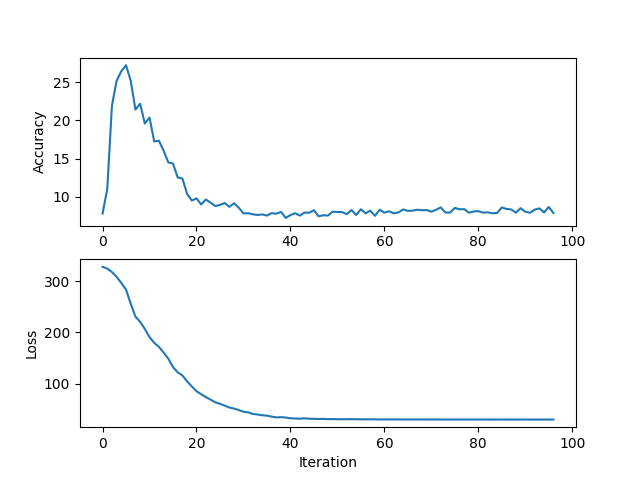
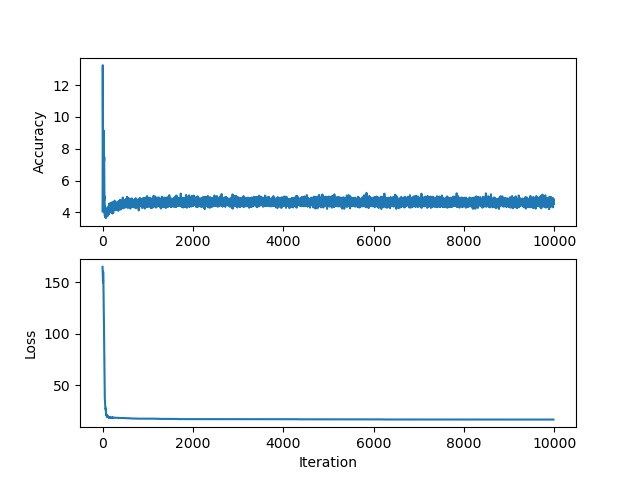
Trained mnist longer for FF (no convergence yet), and updated projects 2 do

diff --git a/architecture/forward-forward/train.py b/architecture/forward-forward/train.py
@@ -68,7 +68,7 @@ def train_mnist():
 
     errors = []
     accuracy = []
-    for epoch in range(1_000):
+    for epoch in range(10_000):
         test_acc = eval_model(model, test_loader).item()
         print(f"({epoch}) acc == {test_acc}%")
 

diff --git a/papers_2_consider.md b/papers_2_consider.md
@@ -52,8 +52,6 @@ Reading research done by (famous) students can be nice, it's one way to read the
 ## NLP 
 [MiniGPT-4](https://github.com/Vision-CAIR/MiniGPT-4)
 
-[BERT: Pre-training of Deep Bidirectional Transformers for Language Understanding](https://arxiv.org/pdf/1810.04805.pdf)
-
 [Meet in the Middle: A New Pre-training Paradigm](https://arxiv.org/pdf/2303.07295.pdf)
 
 [Reflexion: an autonomous agent with dynamic memory and self-reflection](https://arxiv.org/pdf/2303.11366.pdf)
@@ -64,14 +62,12 @@ Reading research done by (famous) students can be nice, it's one way to read the
 
 [AttentionViz: A Global View of Transformer Attention](https://arxiv.org/pdf/2305.03210.pdf)
 
-
 [The Internal State of an LLM Knows When its Lying](https://arxiv.org/abs/2304.13734)
+
+[Direct Preference Optimization: Your Language Model is Secretly a Reward Model](https://arxiv.org/pdf/2305.18290.pdf)
 
 ## GAN
 [Neural Networks with Recurrent Generative Feedback](https://arxiv.org/pdf/2007.09200.pdf)
-
-[Adding Conditional Control to Text-to-Image Diffusion Models](https://arxiv.org/abs/2302.05543)
-[Adding Conditional Control to Text-to-Image Diffusion Models(code)](https://github.com/lllyasviel/ControlNet)
 
 [Fast Text-Conditional Discrete Denoising on Vector-Quantized Latent Spaces](https://arxiv.org/abs/2211.07292)
 
@@ -98,6 +94,4 @@ Reading research done by (famous) students can be nice, it's one way to read the
 [Learning Fine-Grained Bimanual Manipulation with Low-Cost Hardware](https://tonyzhaozh.github.io/aloha/aloha.pdf)
 https://tonyzhaozh.github.io/aloha/
 
-## Others
-[SPREADING VECTORS FOR SIMILARITY SEARCH](https://arxiv.org/pdf/1806.03198.pdf)
 

diff --git a/projects_2_do.md b/projects_2_do.md
@@ -1,4 +1,4 @@
-Sometimes I forget the projects had planned, better to write it down here.
+Sometimes I forget the projects I had planned, better to write it down here.
 
 ## Ideas
 - Puzzles
@@ -8,6 +8,17 @@ Sometimes I forget the projects had planned, better to write it down here.
 - (WIP) Implement, and evaluate some embeddings `nlp/embeddings-experiments`
   - [Check out this](https://twitter.com/abacaj/status/1656323023937368065)
 
-- (WIP) Implement the [forward-forward algorithm](https://arxiv.org/abs/2212.13345) 
-
 - [Adversarial Examples Are Not Bugs, They Are Features](https://arxiv.org/pdf/1905.02175.pdf) has some cool plots, can you reproduce some of them ? 
+
+- Implement [Image generation with shortest path diffusion](https://arxiv.org/pdf/2306.00501.pdf)
+
+- Implement [HyperNetworks](https://arxiv.org/pdf/1609.09106.pdf)
+
+- Implement [Recurrent World Models Facilitate Policy Evolution](./reinforcement-learning/recurrent_world_models_faciliate_policy_evolution.md)
+
+- Implement [BERT: Pre-training of Deep Bidirectional Transformers for Language Understanding](https://arxiv.org/pdf/1810.04805.pdf)
+
+- Implement [spreading vectors for similarity search](https://arxiv.org/pdf/1806.03198.pdf)
+
+- Look at, and ideally break down core parts of the paper and code for [Adding Conditional Control to Text-to-Image Diffusion Models](https://arxiv.org/abs/2302.05543) [Adding Conditional Control to Text-to-Image Diffusion Models(code)](https://github.com/lllyasviel/ControlNet)
+

diff --git a/reinforcement-learning/recurrent_world_models_faciliate_policy_evolution.md b/reinforcement-learning/recurrent_world_models_faciliate_policy_evolution.md
@@ -1,4 +1,4 @@
-[Recurrent World Models Facilitate Policy Evolution](https://arxiv.org/pdf/1809.01999.pdf)
+# [Recurrent World Models Facilitate Policy Evolution](https://arxiv.org/pdf/1809.01999.pdf)
 
 - RNN is trained in a unsupervised manner to model popular reinforcement learning environment through compressed spatiotemporal representation
   - Humans learn abstract representation of the world
@@ -6,8 +6,7 @@
       -  For many problems, an RL agent might also benefit from a predictive model 
 - The world models extracted features are fed into compact and simple policies trained by evolution
 
-
-- The world model will be a large RNN that learns to predict the future given the past in an unsupervised manenr
+- The world model will be a large RNN that learns to predict the future given the past in an unsupervised manner
     - Past observations and actions are perceived and exploited by another NN (controller) which learn through RL to preform some task without a teacher
       - 
 

diff --git a/notes/llm.md b/notes/llm.md
@@ -402,6 +402,22 @@ Interesting idea, track model capability by it's ability to draw unicorns.
 
 They are studying scaling behavior in data constrained environments. From the figures
 -> More epochs hurts the model on a fixed data budget 
--> More data = bigger loss
+-> More data = bigger loss, more data is good
 -> Multiple epochs with repeating data = good
--> 
+
+[tweet](https://twitter.com/blancheminerva/status/1664097432496488450?s=12)
+
+[tweet ](https://twitter.com/muennighoff/status/1661895337248686081?s=12)
+
+
+### [Let’s Verify Step by Step](https://arxiv.org/pdf/2305.20050.pdf)
+[tweet](https://twitter.com/8teapi/status/1664123104074022917?s=12)
+
+OpenAi created a large [dataset](https://github.com/openai/prm800k) of step-level labels, and trained a model on that.
+That model is then used to grade another models reasoning steps.
+
+This is much better than just an outcome based model.
+
+
+
+

diff --git a/notes/reinforcement_learning.md b/notes/reinforcement_learning.md
@@ -68,3 +68,15 @@ Use a RNN to control the handling of the gradient (average it for instance). The
 Goal for the model is to maximize the models performance. 
 
 The paper is cool, might be worth implementing.
+
+
+### [Faster sorting algorithms discovered using deep reinforcement learning](https://www.nature.com/articles/s41586-023-06004-9)
+[blogpost](https://www.deepmind.com/blog/alphadev-discovers-faster-sorting-algorithms)
+[tweet summary][https://twitter.com/drjimfan/status/1666487234445586432?s=12]
+
+- Uses assembly to work on lower levels instead of high levels to find improved algorithms.
+- Uses same core as AlphaZero, and looks at the discovering of new algorithms as a game.
+  - Game = Adding assembly instructions
+  - Reward = correctness and latency in the sorting
+- Pipeline only works for sorting, and has to be retrained for other tasks.
+
